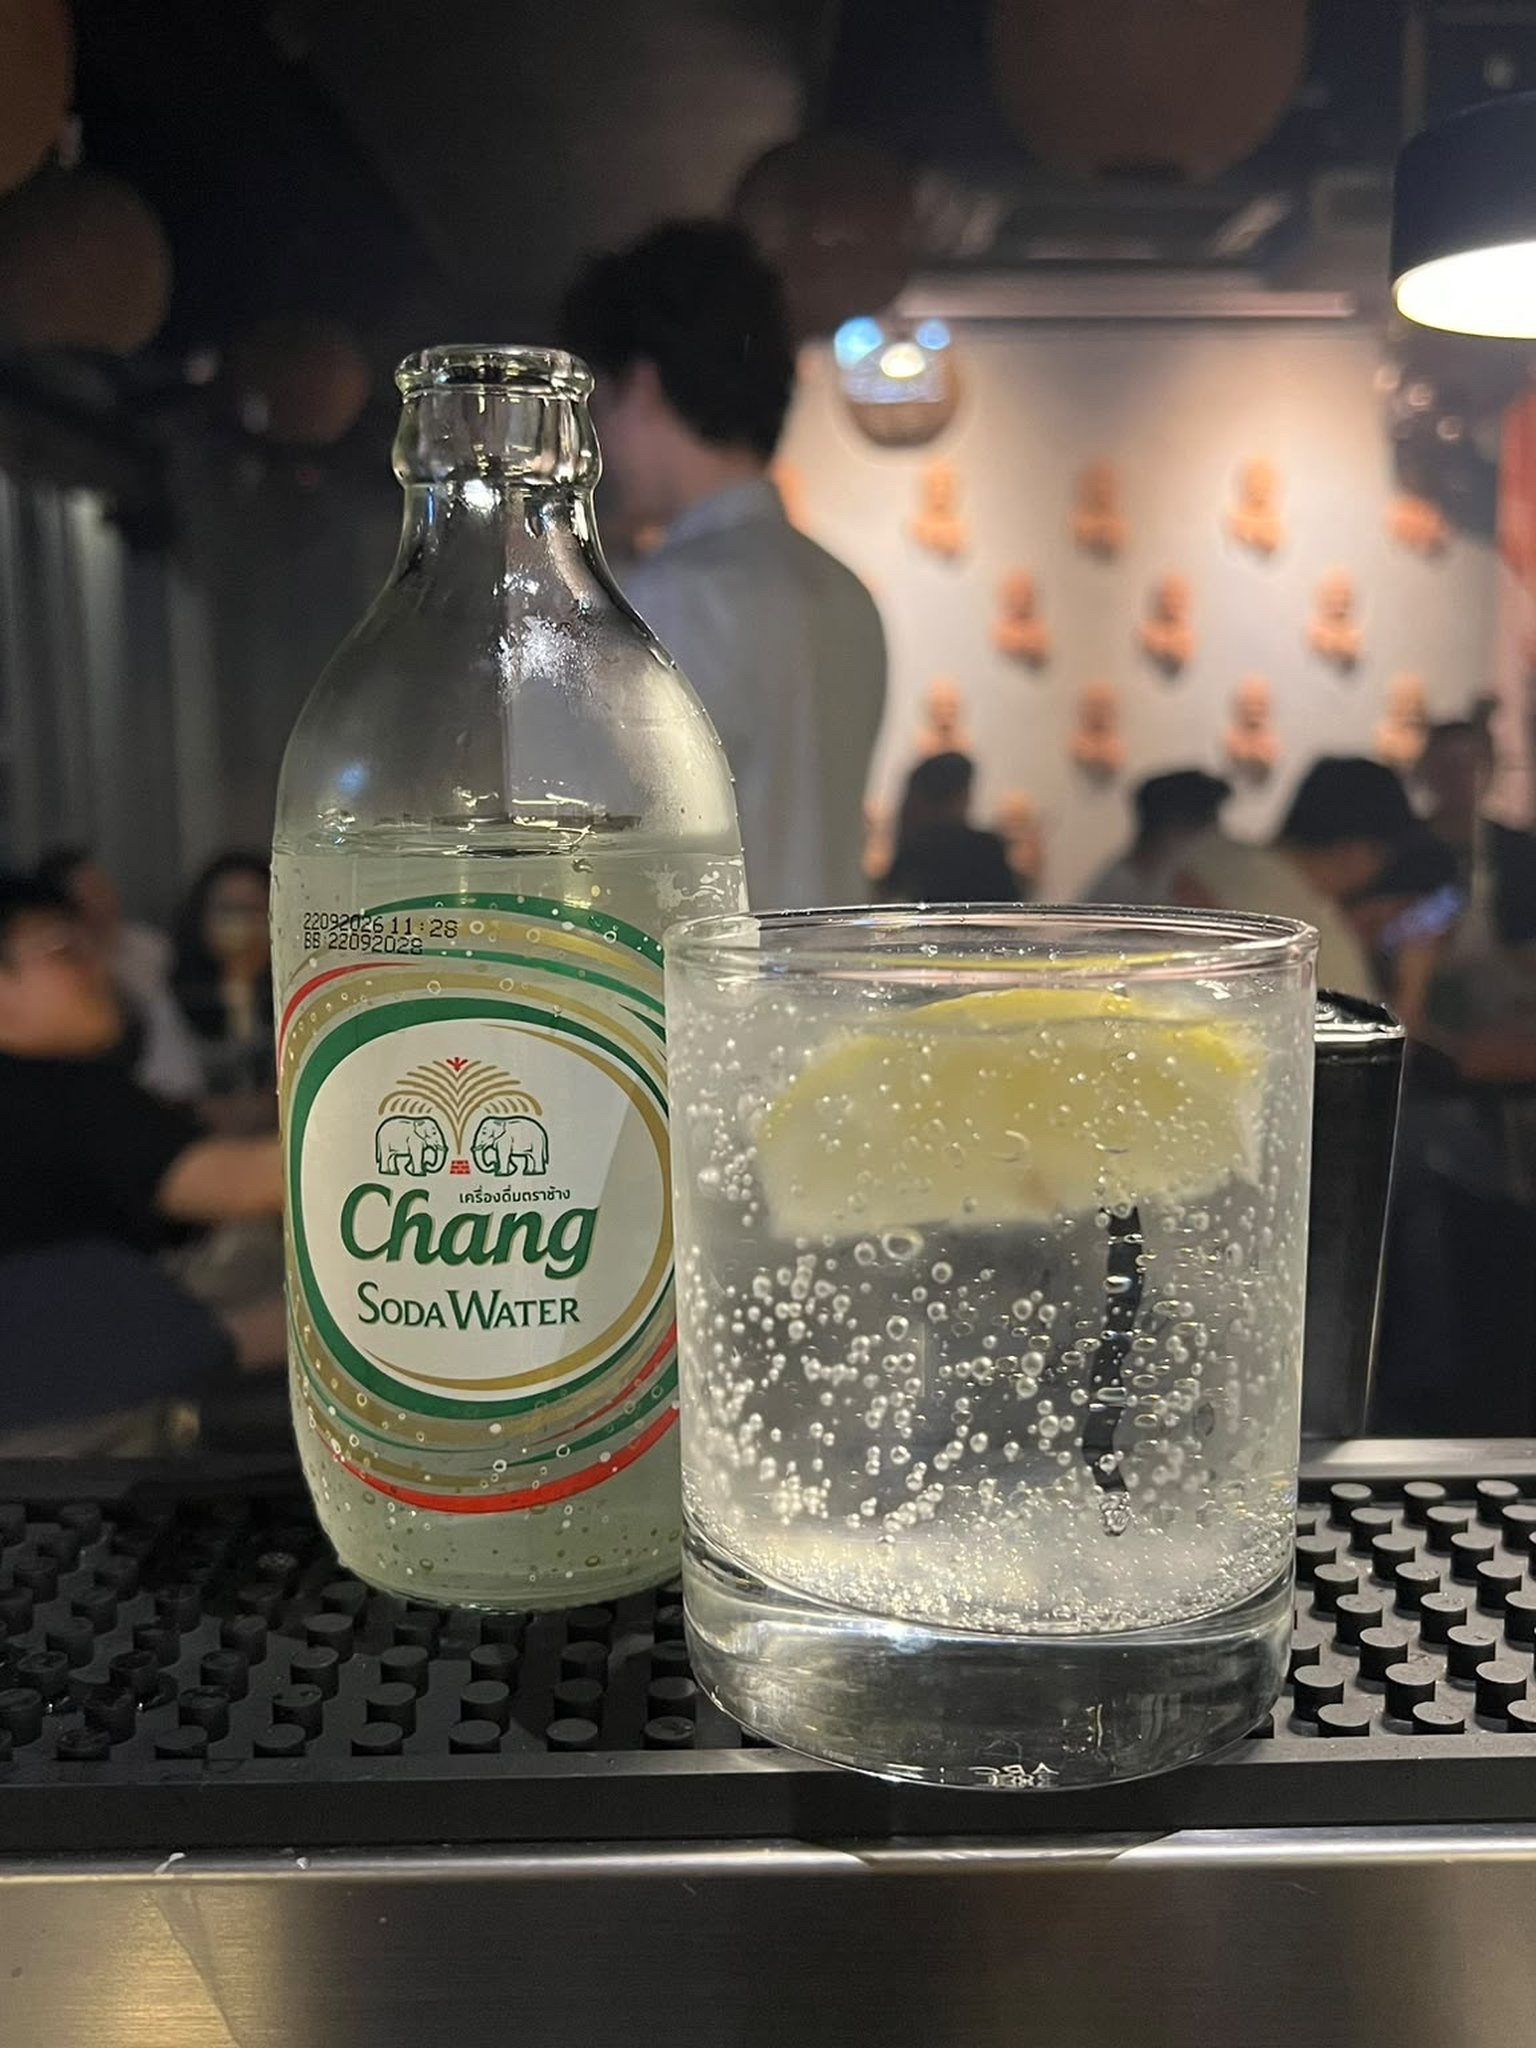
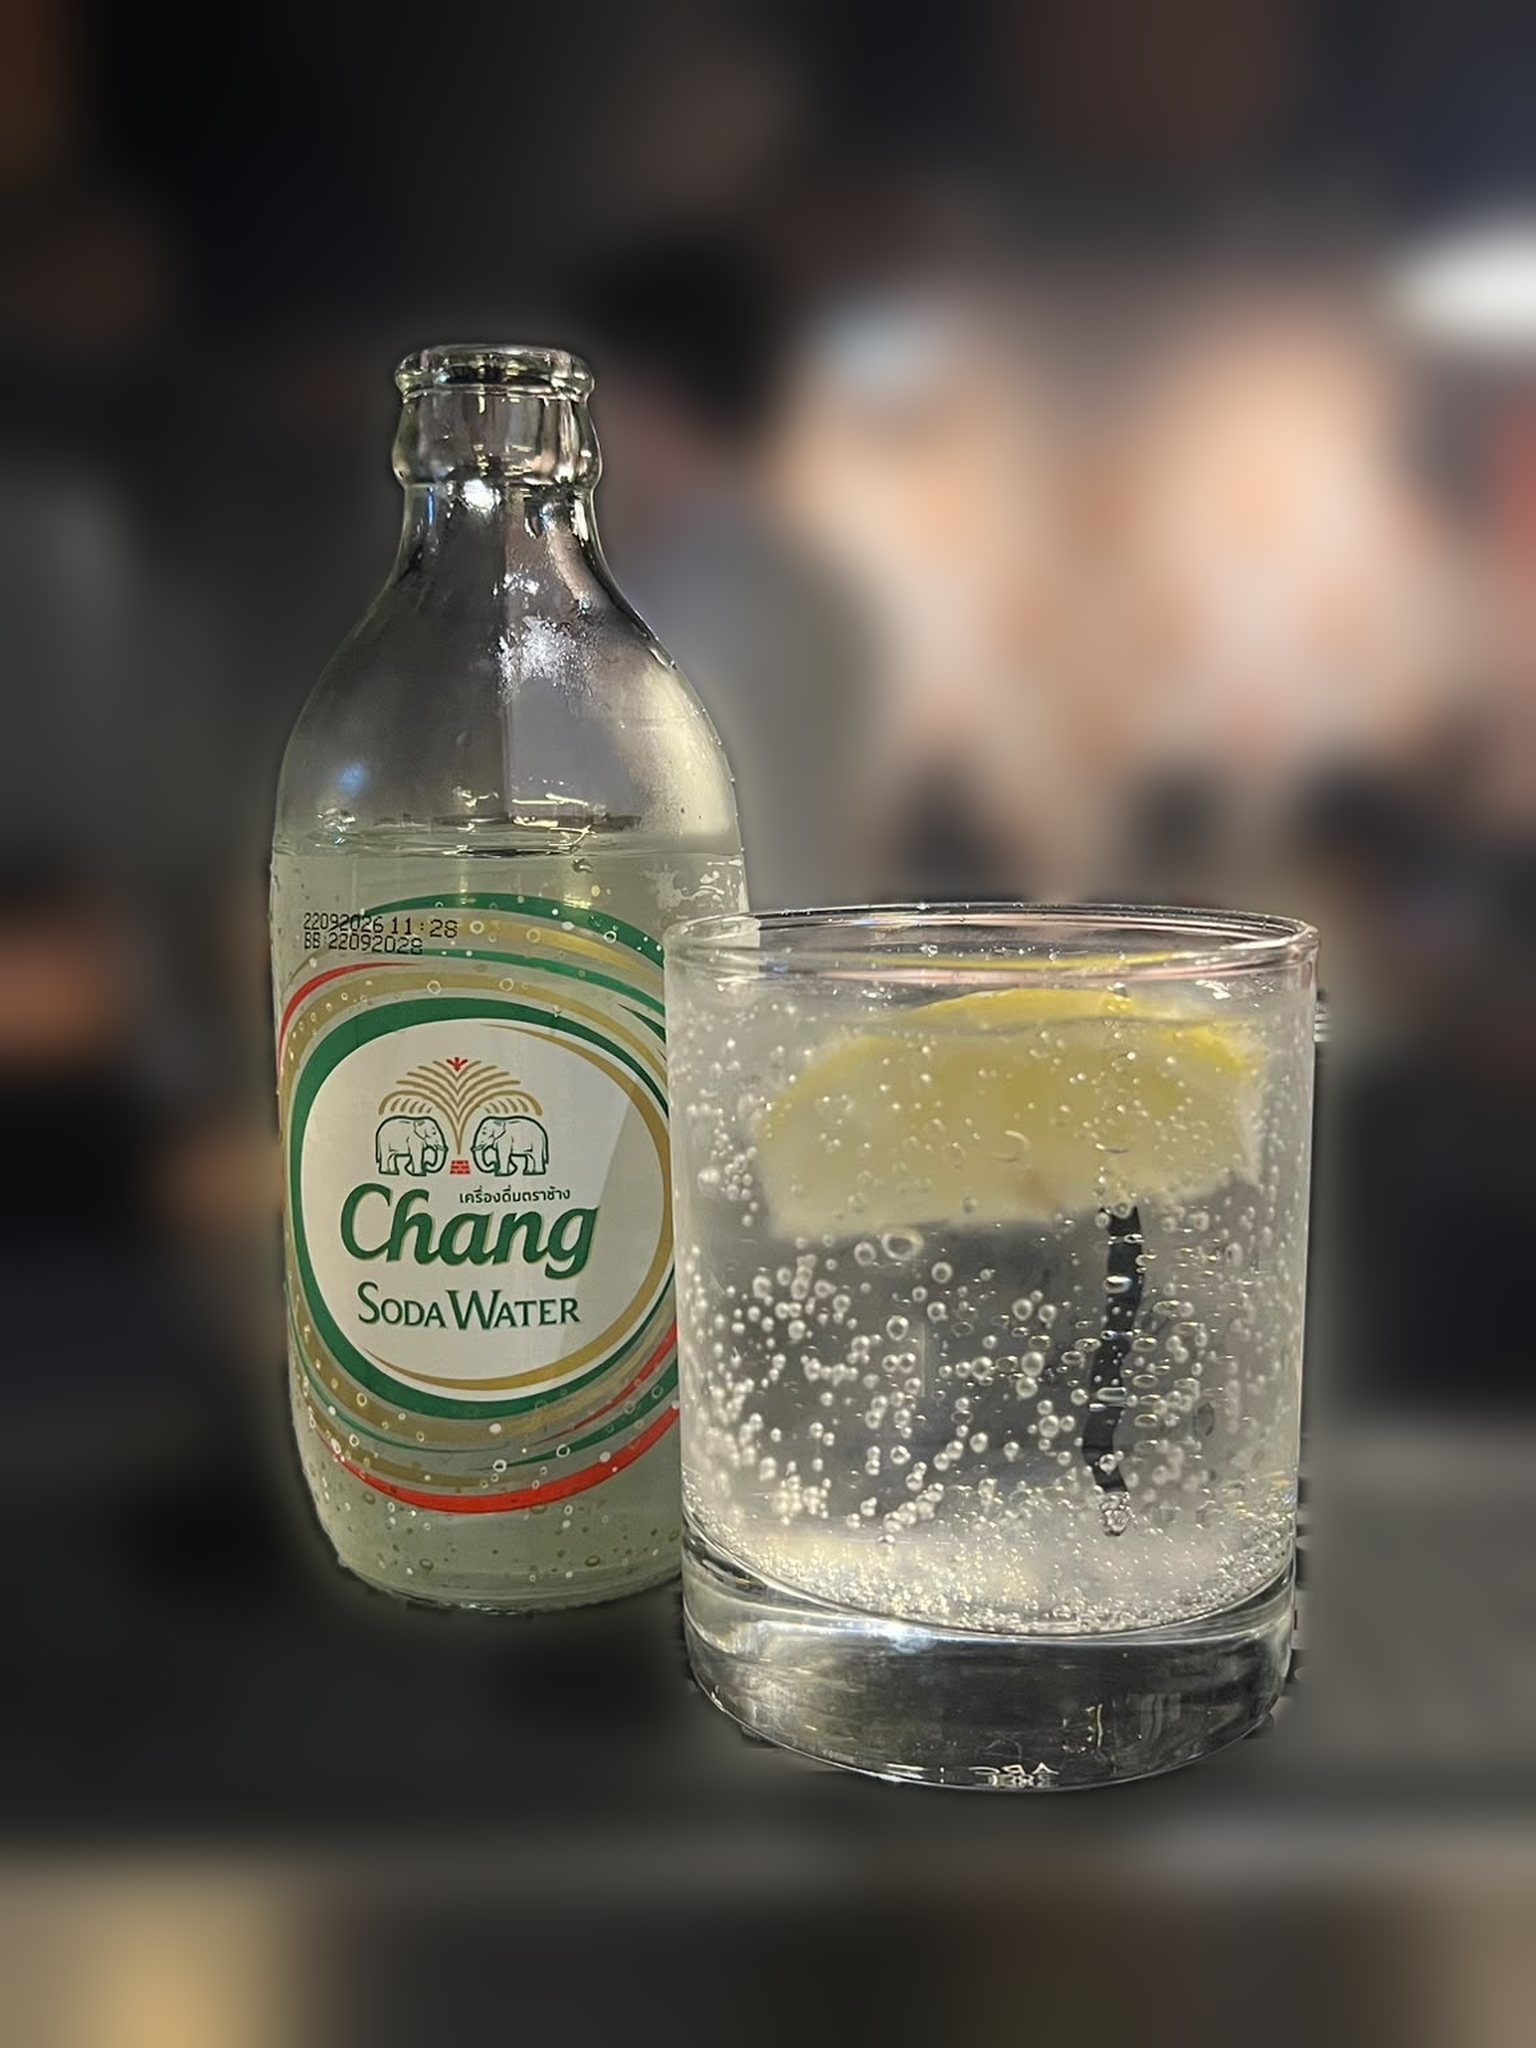
Blur the Soda Water photo background (#195)
Keep the Chang bottle and lemon glass sharp and soften the bar
behind them so the drink reads first on the menu.

diff --git a/polar-order/app/main.py b/polar-order/app/main.py
@@ -120,7 +120,7 @@ templates = Jinja2Templates(directory=str(ROOT / "templates"))
 
 STAFF_PIN = os.getenv("POLAR_STAFF_PIN", "polar2026")
 # Bump when shipping guest UI/CSS/JS so iPhone Safari cannot keep a stale bundle.
-ASSET_VERSION = os.getenv("POLAR_ASSET_VERSION", "20261113a").strip() or "20261113a"
+ASSET_VERSION = os.getenv("POLAR_ASSET_VERSION", "20261113b").strip() or "20261113b"
 templates.env.globals["asset_v"] = ASSET_VERSION
 _subscribers: list[asyncio.Queue] = []
 
